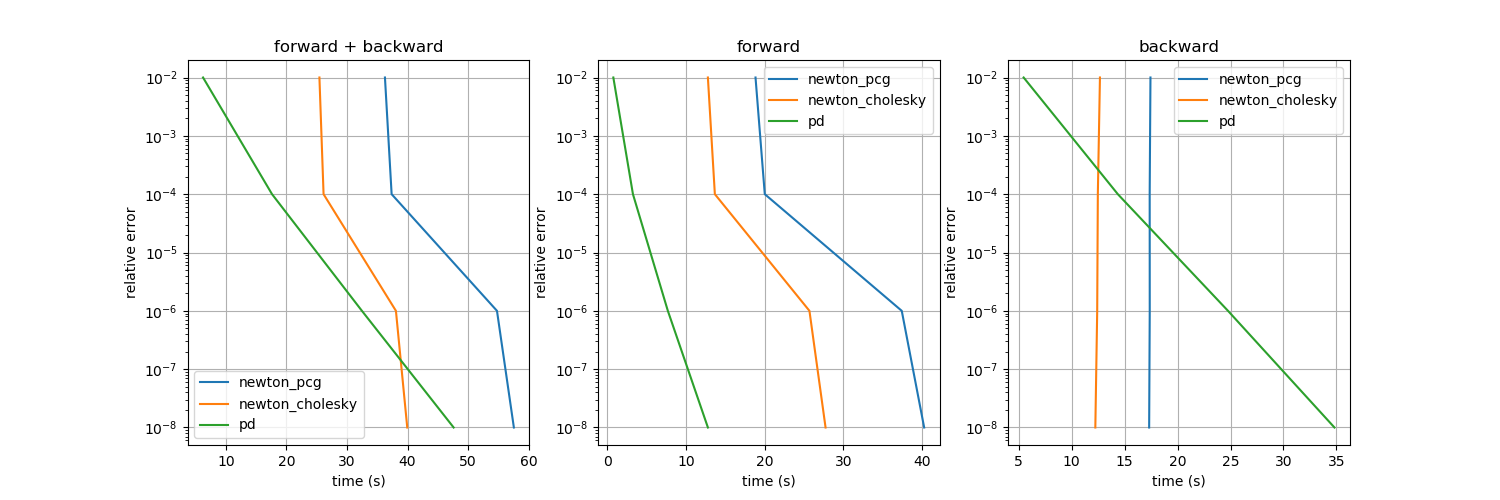
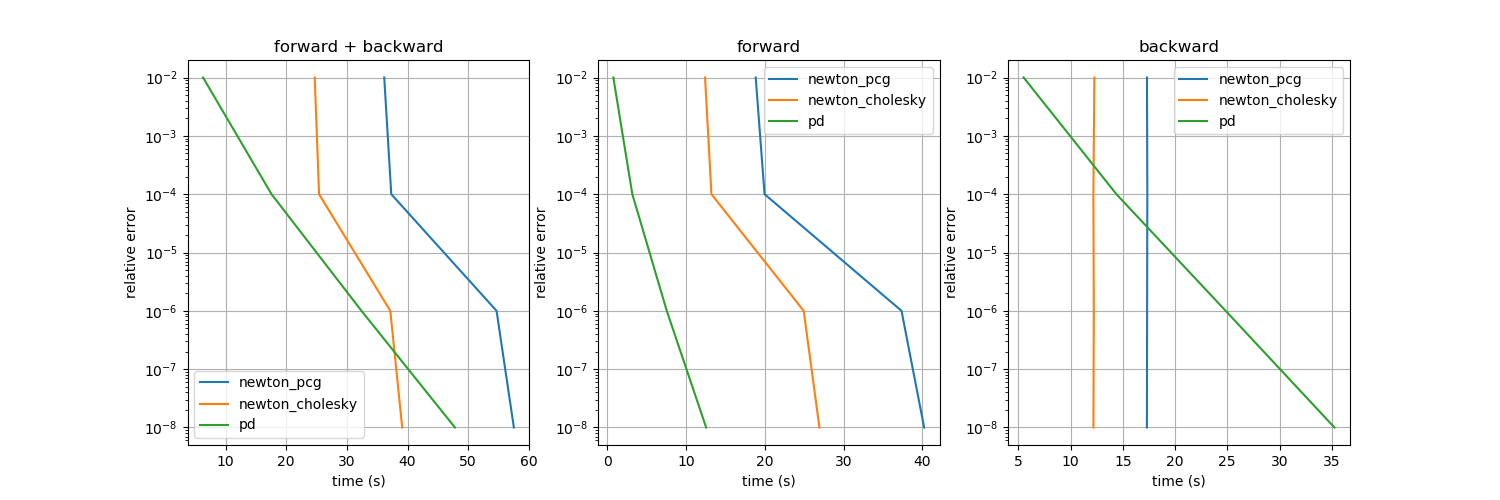
Solve each vertex dimension separately in PD.

diff --git a/cpp/core/src/fem/deformable_projective_dynamics.cpp b/cpp/core/src/fem/deformable_projective_dynamics.cpp
@@ -7,19 +7,23 @@ template<int vertex_dim, int element_dim>
 void Deformable<vertex_dim, element_dim>::SetupProjectiveDynamicsSolver(const real dt) const {
     if (pd_solver_ready_) return;
     // Assemble and pre-factorize the left-hand-side matrix.
-    SparseMatrixElements nonzeros;
     const int element_num = mesh_.NumOfElements();
     const int sample_num = element_dim;
+    const int vertex_num = mesh_.NumOfVertices();
     // The left-hand side is (m / h^2 + \sum w_i SAAS)q.
     // Here we assemble I + h^2/m \sum w_i SAAS.
     const real mass = density_ * cell_volume_;
     const real h2m = dt * dt / mass;
-    // Part I: the identity matrix.
+    std::array<SparseMatrixElements, vertex_dim> nonzeros;
     for (int i = 0; i < dofs_; ++i) {
         // Skip dofs fixed by the dirichlet boundary conditions -- we will add them back later.
-        if (dirichlet_.find(i) == dirichlet_.end())
-            nonzeros.push_back(Eigen::Triplet<real>(i, i, 1));
+        if (dirichlet_.find(i) == dirichlet_.end()) {
+            const int node_idx = i / vertex_dim;
+            const int node_offset = i % vertex_dim;
+            nonzeros[node_offset].push_back(Eigen::Triplet<real>(node_idx, node_idx, 1));
+        }
     }
+
     // Part II: potential energy from the material.
     // w_i = 2 * mu * cell_volume / sample_num.
     const real w = 2 * material_->mu() * cell_volume() / sample_num;
@@ -41,19 +45,29 @@ void Deformable<vertex_dim, element_dim>::SetupProjectiveDynamicsSolver(const re
                 const real val = triplet.value() * h2mw;
                 // Skip dofs that are fixed by dirichlet boundary conditions.
                 if (dirichlet_.find(remap_idx[row]) == dirichlet_.end() &&
-                    dirichlet_.find(remap_idx[col]) == dirichlet_.end())
-                    nonzeros.push_back(Eigen::Triplet<real>(remap_idx[row], remap_idx[col], val));
+                    dirichlet_.find(remap_idx[col]) == dirichlet_.end()) {
+                    const int r = remap_idx[row];
+                    const int c = remap_idx[col];
+                    CheckError((r - c) % vertex_dim == 0, "AtA violates the assumption that x, y, and z are decoupled.");
+                    nonzeros[r % vertex_dim].push_back(Eigen::Triplet<real>(r / vertex_dim, c / vertex_dim, val));
+                }
             }
         }
     }
+
     // Part III: add back dirichlet boundary conditions.
-    for (const auto& pair : dirichlet_)
-        nonzeros.push_back(Eigen::Triplet<real>(pair.first, pair.first, 1));
+    for (const auto& pair : dirichlet_) {
+        const int node_idx = pair.first / vertex_dim;
+        const int node_offset = pair.first % vertex_dim;
+        nonzeros[node_offset].push_back(Eigen::Triplet<real>(node_idx, node_idx, 1));
+    }
 
     // Assemble and pre-factorize the matrix.
-    pd_lhs_ = ToSparseMatrix(dofs_, dofs_, nonzeros);
-    pd_solver_.compute(pd_lhs_);
-    CheckError(pd_solver_.info() == Eigen::Success, "Cholesky solver failed to factorize the matrix.");
+    for (int i = 0; i < vertex_dim; ++i) {
+        pd_lhs_[i] = ToSparseMatrix(vertex_num, vertex_num, nonzeros[i]);
+        pd_solver_[i].compute(pd_lhs_[i]);
+        CheckError(pd_solver_[i].info() == Eigen::Success, "Cholesky solver failed to factorize the matrix.");
+    }
     pd_solver_ready_ = true;
 }
 
@@ -144,8 +158,7 @@ void Deformable<vertex_dim, element_dim>::ForwardProjectiveDynamics(const Vector
         for (const auto& pair : dirichlet_) pd_rhs(pair.first) = pair.second;
 
         // Global step.
-        const VectorXr q_sol_next = pd_solver_.solve(pd_rhs);
-        CheckError(pd_solver_.info() == Eigen::Success, "Cholesky solver failed.");
+        const VectorXr q_sol_next = PdLhsSolve(pd_rhs);
         const VectorXr force_next = ElasticForce(q_sol_next);
 
         // Check for convergence.
@@ -270,11 +283,10 @@ void Deformable<vertex_dim, element_dim>::BackwardProjectiveDynamics(const Vecto
         for (const auto& pair : dirichlet_) pd_rhs(pair.first) = 0;
 
         // Global step.
-        VectorXr adjoint_next = pd_solver_.solve(pd_rhs);
-        CheckError(pd_solver_.info() == Eigen::Success, "Cholesky solver failed.");
+        VectorXr adjoint_next = PdLhsSolve(pd_rhs);
 
         // Check for convergence.
-        const VectorXr pd_lhs = pd_lhs_ * adjoint;
+        const VectorXr pd_lhs = PdLhsMatrixOp(adjoint);
         const real abs_error = VectorXr((pd_lhs - pd_rhs).array() * selected.array()).norm();
         const real rhs_norm = VectorXr(selected.array() * pd_rhs.array()).norm();
         if (verbose_level > 1) std::cout << "abs_error = " << abs_error << ", rel_tol * rhs_norm = " << rel_tol * rhs_norm << std::endl;
@@ -291,6 +303,31 @@ void Deformable<vertex_dim, element_dim>::BackwardProjectiveDynamics(const Vecto
         adjoint = adjoint_next;
     }
     PrintError("Projective dynamics back-propagation fails to converge.");
+}
+
+template<int vertex_dim, int element_dim>
+const VectorXr Deformable<vertex_dim, element_dim>::PdLhsMatrixOp(const VectorXr& q) const {
+    const int vertex_num = mesh_.NumOfVertices();
+    const Eigen::Matrix<real, vertex_dim, -1> q_reshape = Eigen::Map<
+        const Eigen::Matrix<real, vertex_dim, -1>>(q.data(), vertex_dim, vertex_num);
+    Eigen::Matrix<real, vertex_dim, -1> product = Eigen::Matrix<real, vertex_dim, -1>::Zero(vertex_dim, vertex_num);
+    for (int j = 0; j < vertex_dim; ++j) {
+        product.row(j) = q_reshape.row(j) * pd_lhs_[j];
+    }
+    return Eigen::Map<const VectorXr>(product.data(), product.size());
+}
+
+template<int vertex_dim, int element_dim>
+const VectorXr Deformable<vertex_dim, element_dim>::PdLhsSolve(const VectorXr& rhs) const {
+    const int vertex_num = mesh_.NumOfVertices();
+    const Eigen::Matrix<real, vertex_dim, -1> rhs_reshape = Eigen::Map<
+        const Eigen::Matrix<real, vertex_dim, -1>>(rhs.data(), vertex_dim, vertex_num);
+    Eigen::Matrix<real, vertex_dim, -1> sol = Eigen::Matrix<real, vertex_dim, -1>::Zero(vertex_dim, vertex_num);
+    for (int j = 0; j < vertex_dim; ++j) {
+        sol.row(j) = pd_solver_[j].solve(VectorXr(rhs_reshape.row(j)));
+        CheckError(pd_solver_[j].info() == Eigen::Success, "Cholesky solver failed.");
+    }
+    return Eigen::Map<const VectorXr>(sol.data(), sol.size());
 }
 
 template class Deformable<2, 4>;

diff --git a/cpp/core/include/fem/deformable.h b/cpp/core/include/fem/deformable.h
@@ -107,6 +107,8 @@ private:
     void SetupProjectiveDynamicsSolver(const real dt) const;
     const VectorXr ProjectiveDynamicsLocalStep(const VectorXr& q_cur) const;
     const VectorXr ProjectiveDynamicsLocalStepTransposeDifferential(const VectorXr& q_cur, const VectorXr& dq_cur) const;
+    const VectorXr PdLhsMatrixOp(const VectorXr& q) const;
+    const VectorXr PdLhsSolve(const VectorXr& rhs) const;
 
     Mesh<vertex_dim, element_dim> mesh_;
     real density_;
@@ -124,8 +126,8 @@ private:
     std::array<Eigen::Matrix<real, element_dim * vertex_dim, vertex_dim * vertex_dim>, element_dim> dF_dxkd_flattened_;
 
     // Projective-dynamics-related data members.
-    mutable Eigen::SimplicialLDLT<SparseMatrix> pd_solver_;
-    mutable SparseMatrix pd_lhs_;
+    mutable std::array<Eigen::SimplicialLDLT<SparseMatrix>, vertex_dim> pd_solver_;
+    mutable std::array<SparseMatrix, vertex_dim> pd_lhs_;
     mutable bool pd_solver_ready_;
     mutable std::vector<SparseMatrix> pd_A_, pd_At_;
 };

diff --git a/python/example/benchmark_3d.py b/python/example/benchmark_3d.py
@@ -160,4 +160,5 @@ if __name__ == '__main__':
         ax.set_title(title)
 
     fig.savefig(folder / 'benchmark.pdf')
+    fig.savefig(folder / 'benchmark.png')
     plt.show()
